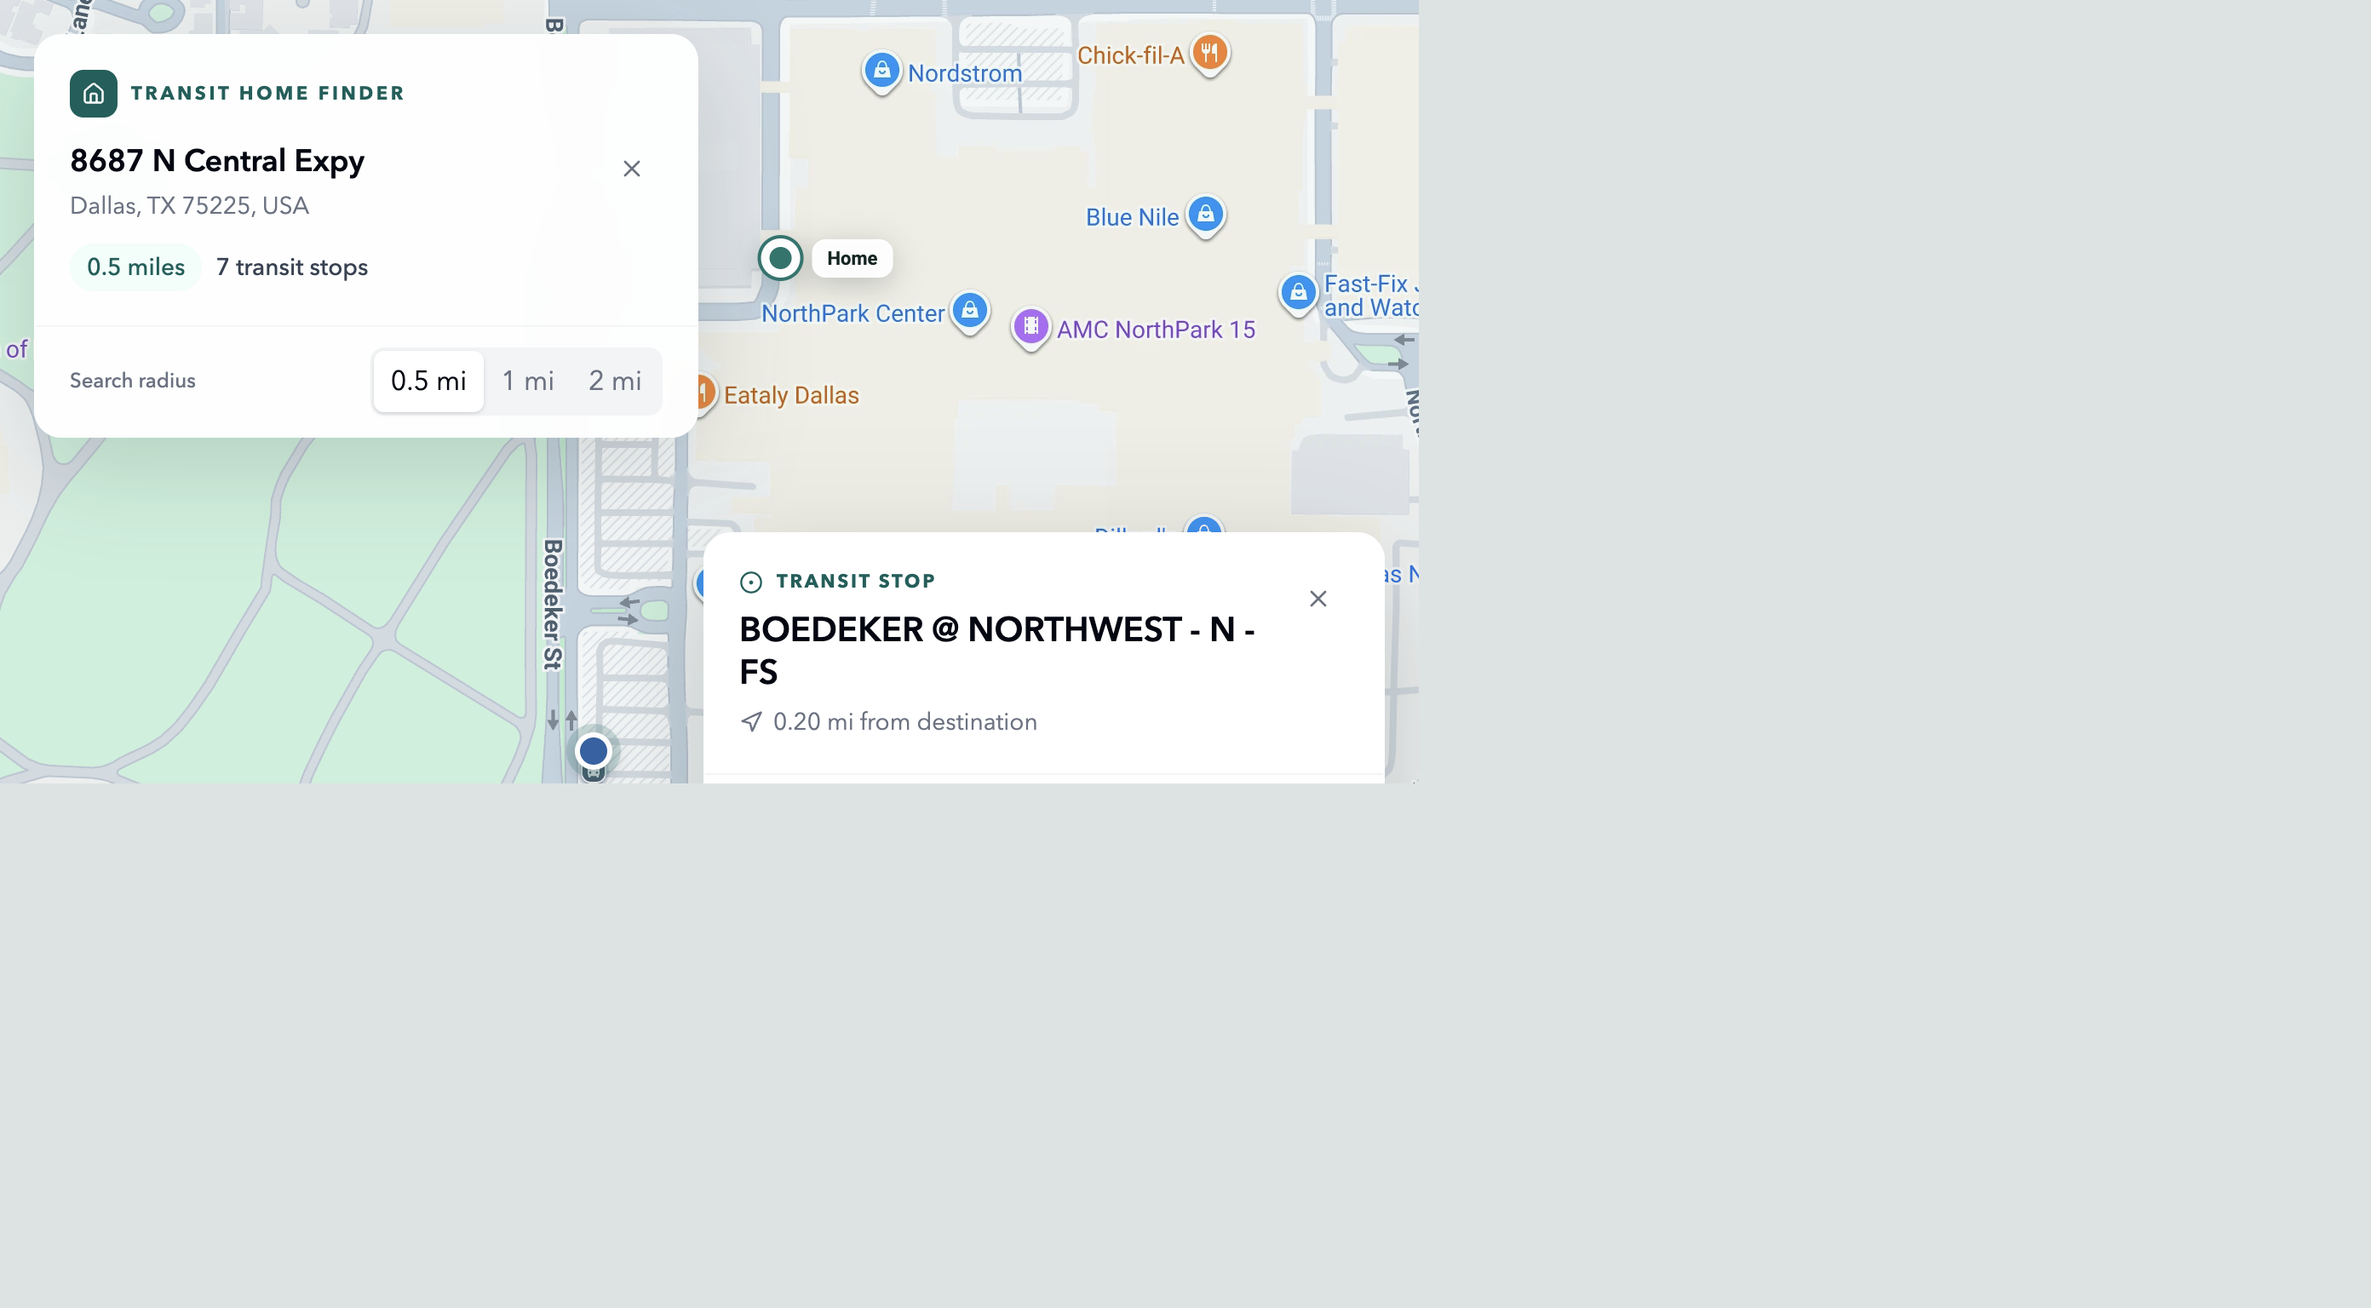
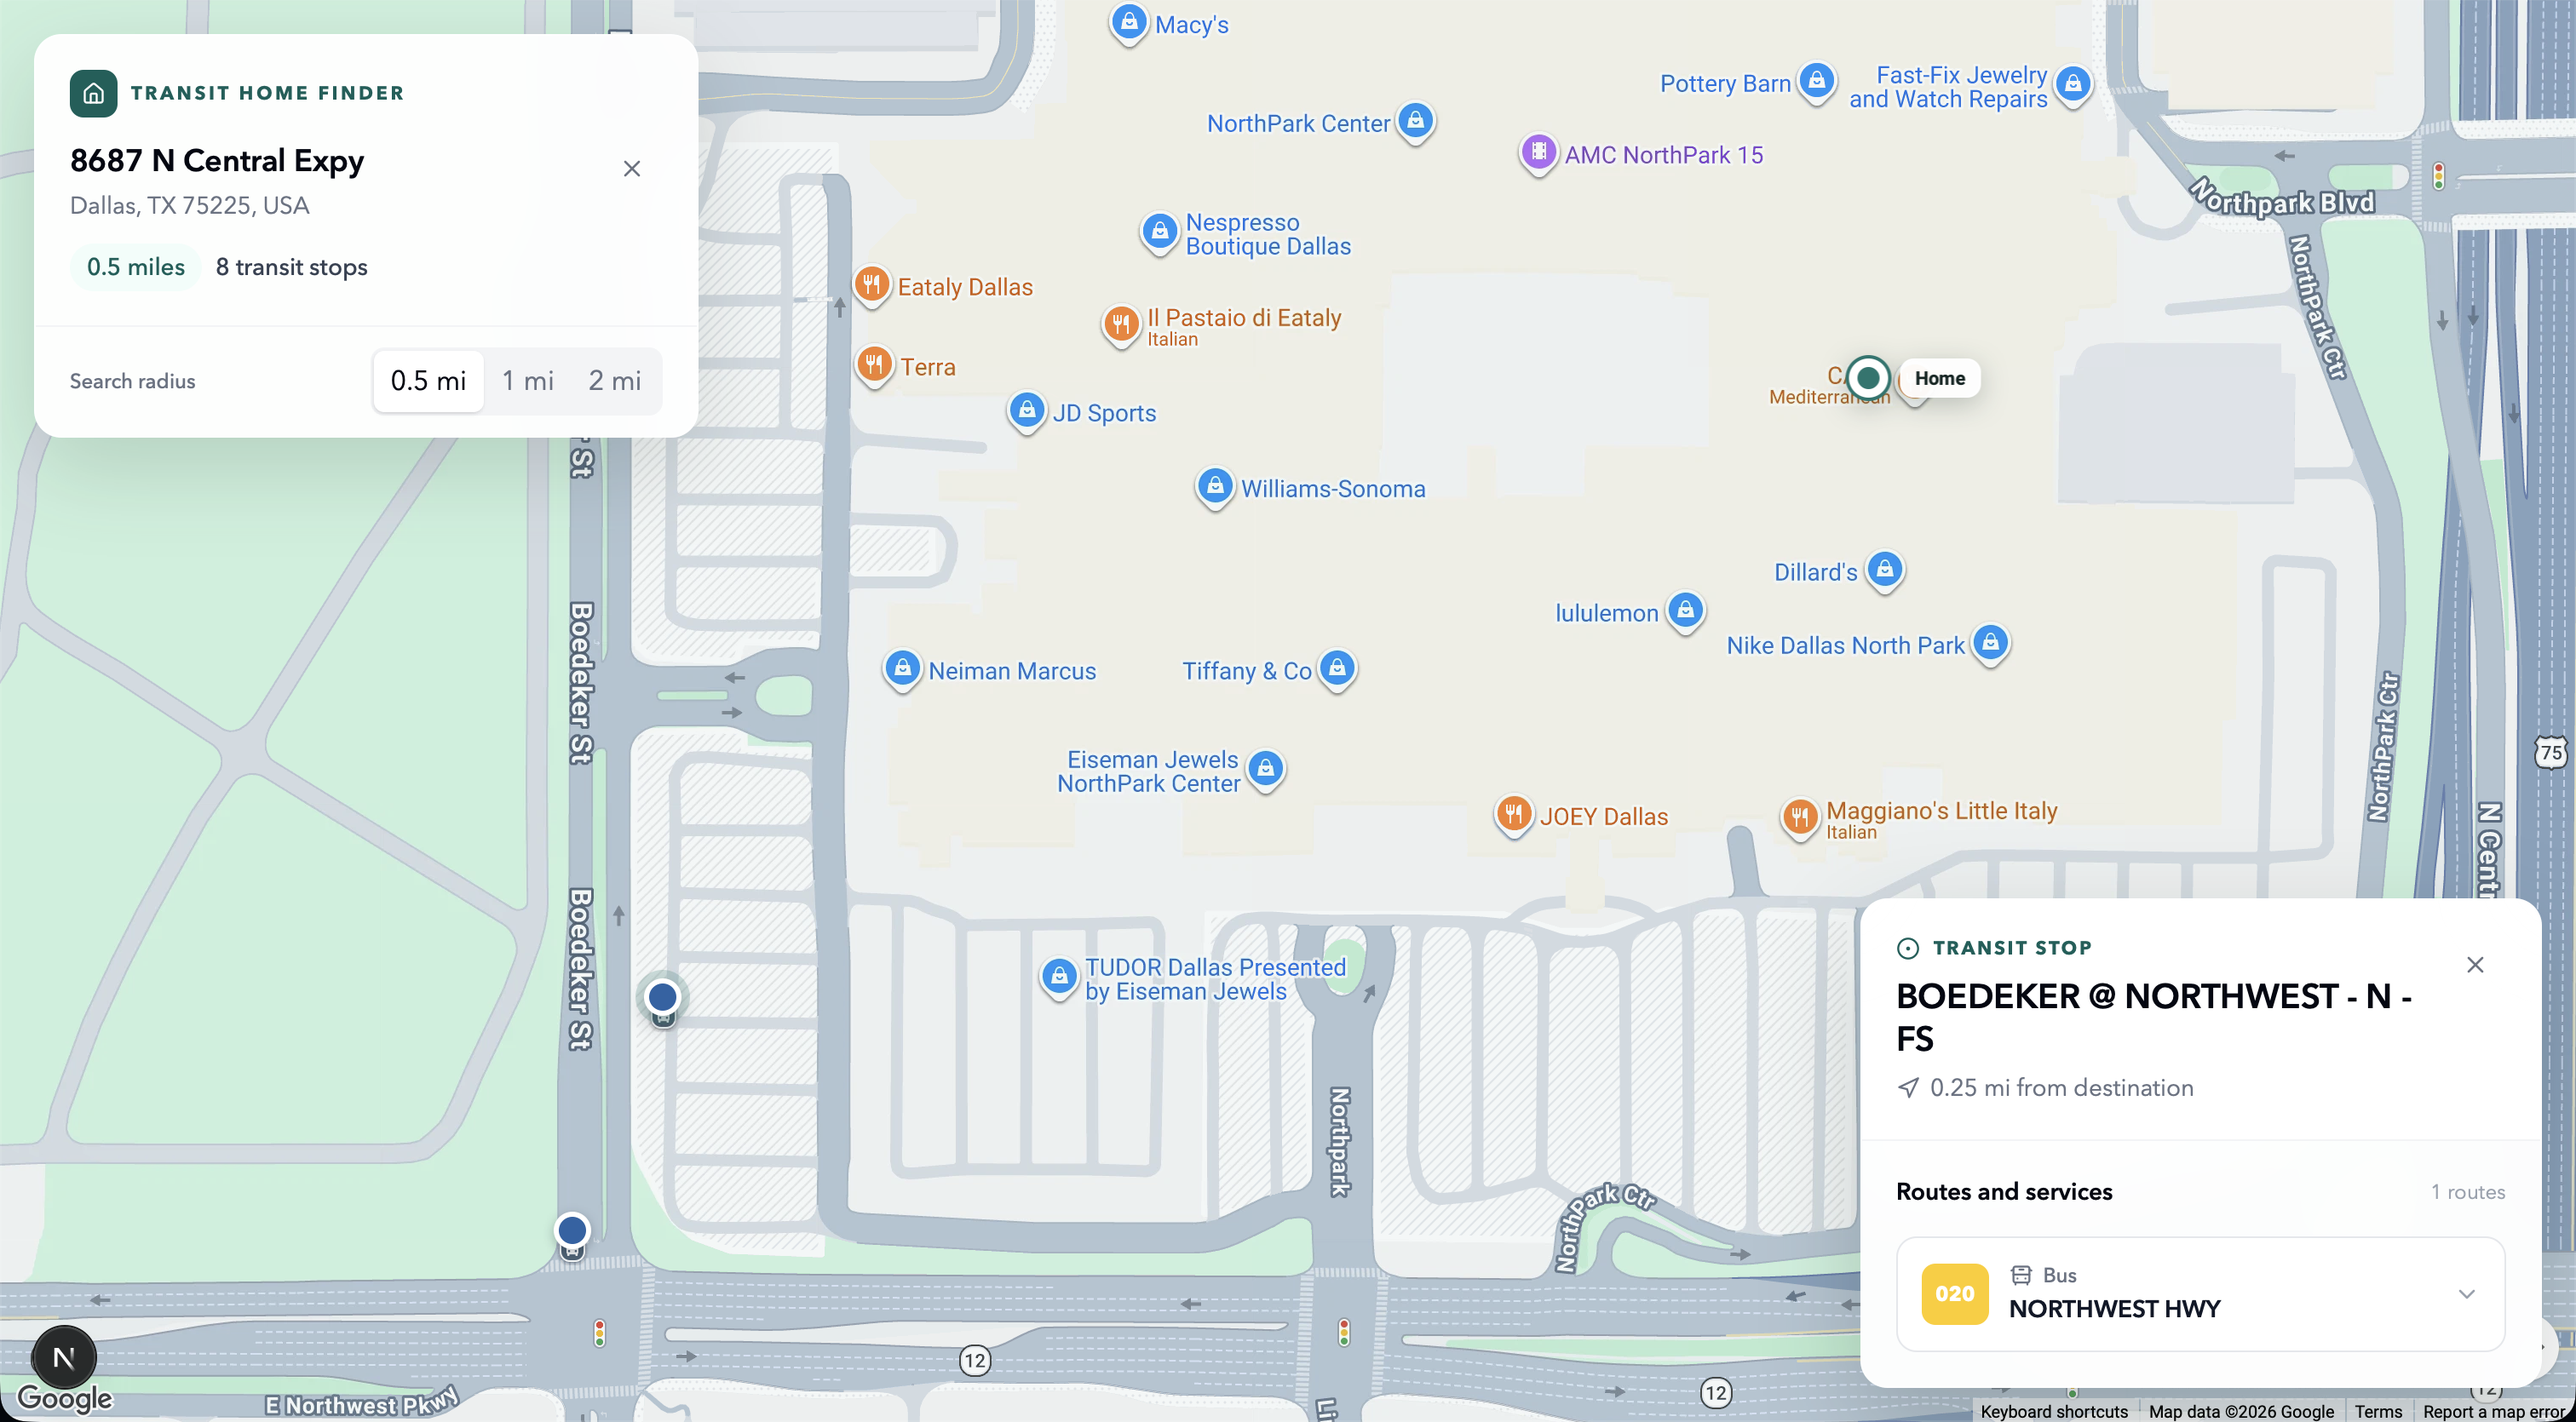
Use supplied product screenshots

diff --git a/README.md b/README.md
@@ -4,7 +4,7 @@ Transit Home Finder answers one apartment-hunting question: **how good is public
 
 Search for a prospective home, inspect nearby DART stops, select a stop, and explore its published routes on an interactive Google Map. The experience is deliberately ordered around **address → nearby transit → stop → route**, rather than generic trip planning.
 
-![Nearby transit around Dallas City Hall](docs/screenshots/nearby-transit-desktop.png)
+![Transit Home Finder address search](docs/screenshots/search-desktop.png)
 
 ## Highlights
 
@@ -19,6 +19,8 @@ Search for a prospective home, inspect nearby DART stops, select a stop, and exp
 - Optional PostgreSQL/PostGIS data source for production-scale spatial queries
 
 ## Demo
+
+![Nearby transit around NorthPark Center](docs/screenshots/nearby-transit-desktop.png)
 
 | Selected stop | Selected route |
 | --- | --- |
